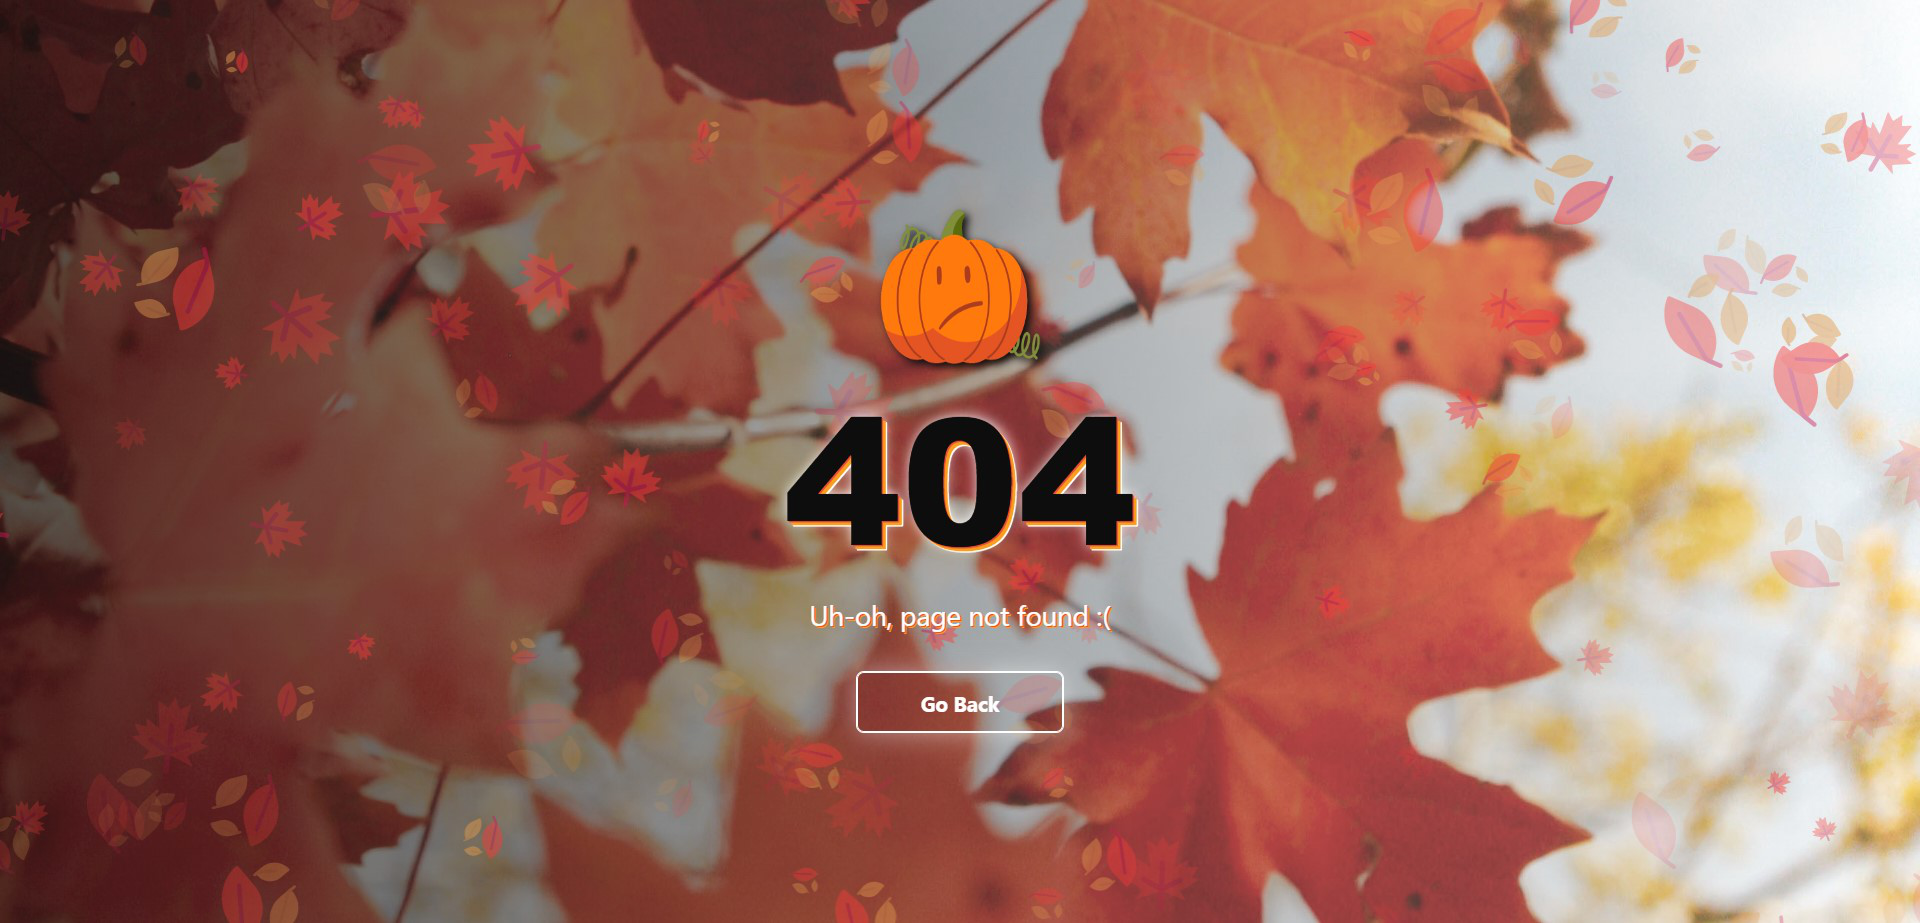
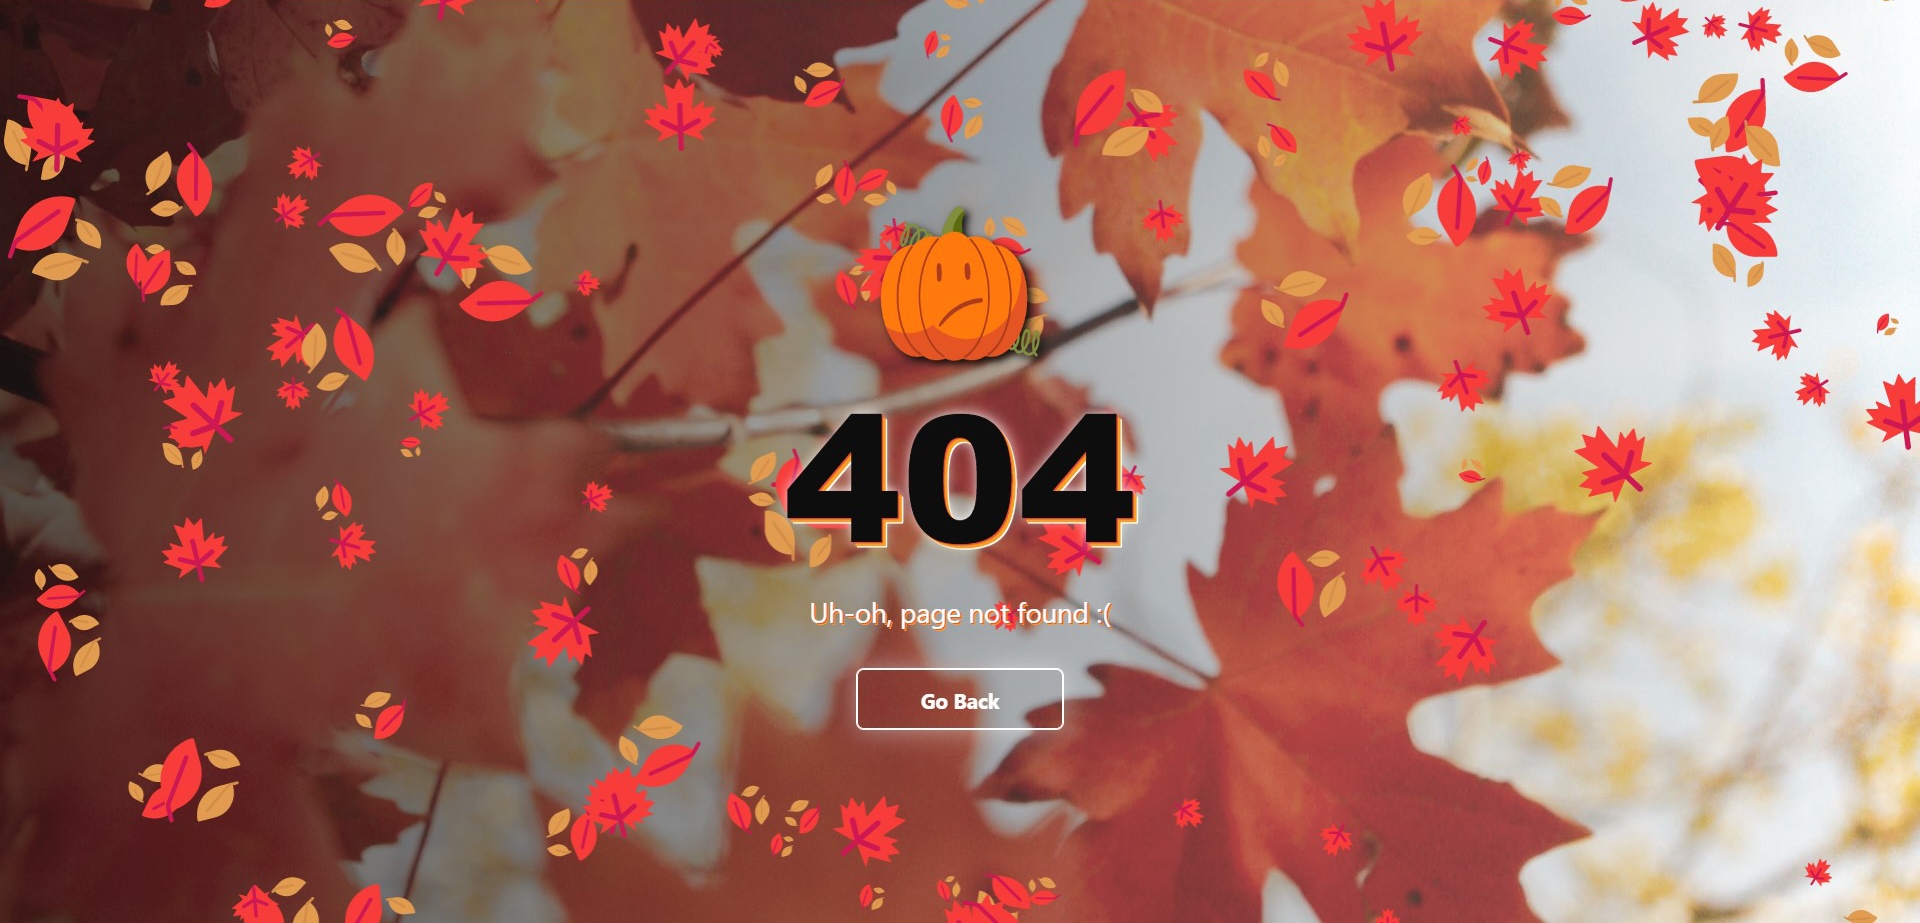
Change opacity and update screenshots

diff --git a/autumn/scripts/404.js b/autumn/scripts/404.js
@@ -13,7 +13,7 @@ tsParticles.load("tsparticles", {
             }
         },
         modes: {
-            bubble: { distance: 100, duration: 2, opacity: 0.8, size: 40, speed: 3 },
+            bubble: { distance: 100, duration: 2, opacity: 1, size: 40, speed: 3 },
             grab: { distance: 400, links: { opacity: 1 } },
             push: { quantity: 4 },
             remove: { quantity: 2 },
@@ -26,7 +26,7 @@ tsParticles.load("tsparticles", {
             color: "random",
             distance: 150,
             enable: false,
-            opacity: 0.4,
+            opacity: 1,
             width: 1
         },
         move: {
@@ -48,7 +48,7 @@ tsParticles.load("tsparticles", {
         },
         number: { density: { enable: true, area: 800 }, value: 100 },
         opacity: {
-            animation: { enable: true, minimumValue: 0.5, speed: 1, sync: false },
+            animation: { enable: true, minimumValue: 1, speed: 1, sync: false },
             random: false,
             value: 1
         },

diff --git a/autumn/styles/404.css b/autumn/styles/404.css
@@ -1,6 +1,6 @@
 #tsparticles {
     position: fixed !important;
-    opacity: 0.5;
+    opacity: 0.9;
     height: 100vh;
 }
 
@@ -21,7 +21,7 @@ h3 {
     align-items: center;
     height: 100vh;
     opacity: 0.95;
-    background-image: linear-gradient(90deg, rgba(0,0,0,1) 0%, rgba(0,0,0,0.7) 0%, rgba(255,255,255,0.2) 100%), url("/autumn/images/autumn.jpg");
+    background-image: linear-gradient(90deg, rgba(0,0,0,0.7) 0%, rgba(255,255,255,0.2) 100%), url("/autumn/images/autumn.jpg");
     background-size: cover;
     background-position: center;
     background-repeat: no-repeat;
@@ -121,4 +121,10 @@ img{
     filter: brightness(120%);
     filter: contrast(120%);
     filter: drop-shadow(3px 3px 3px black);
+    transition: opacity 0.5s ease-in-out;
+}
+
+img:hover{
+    width: 32%;
+    height: 32%;
 }
